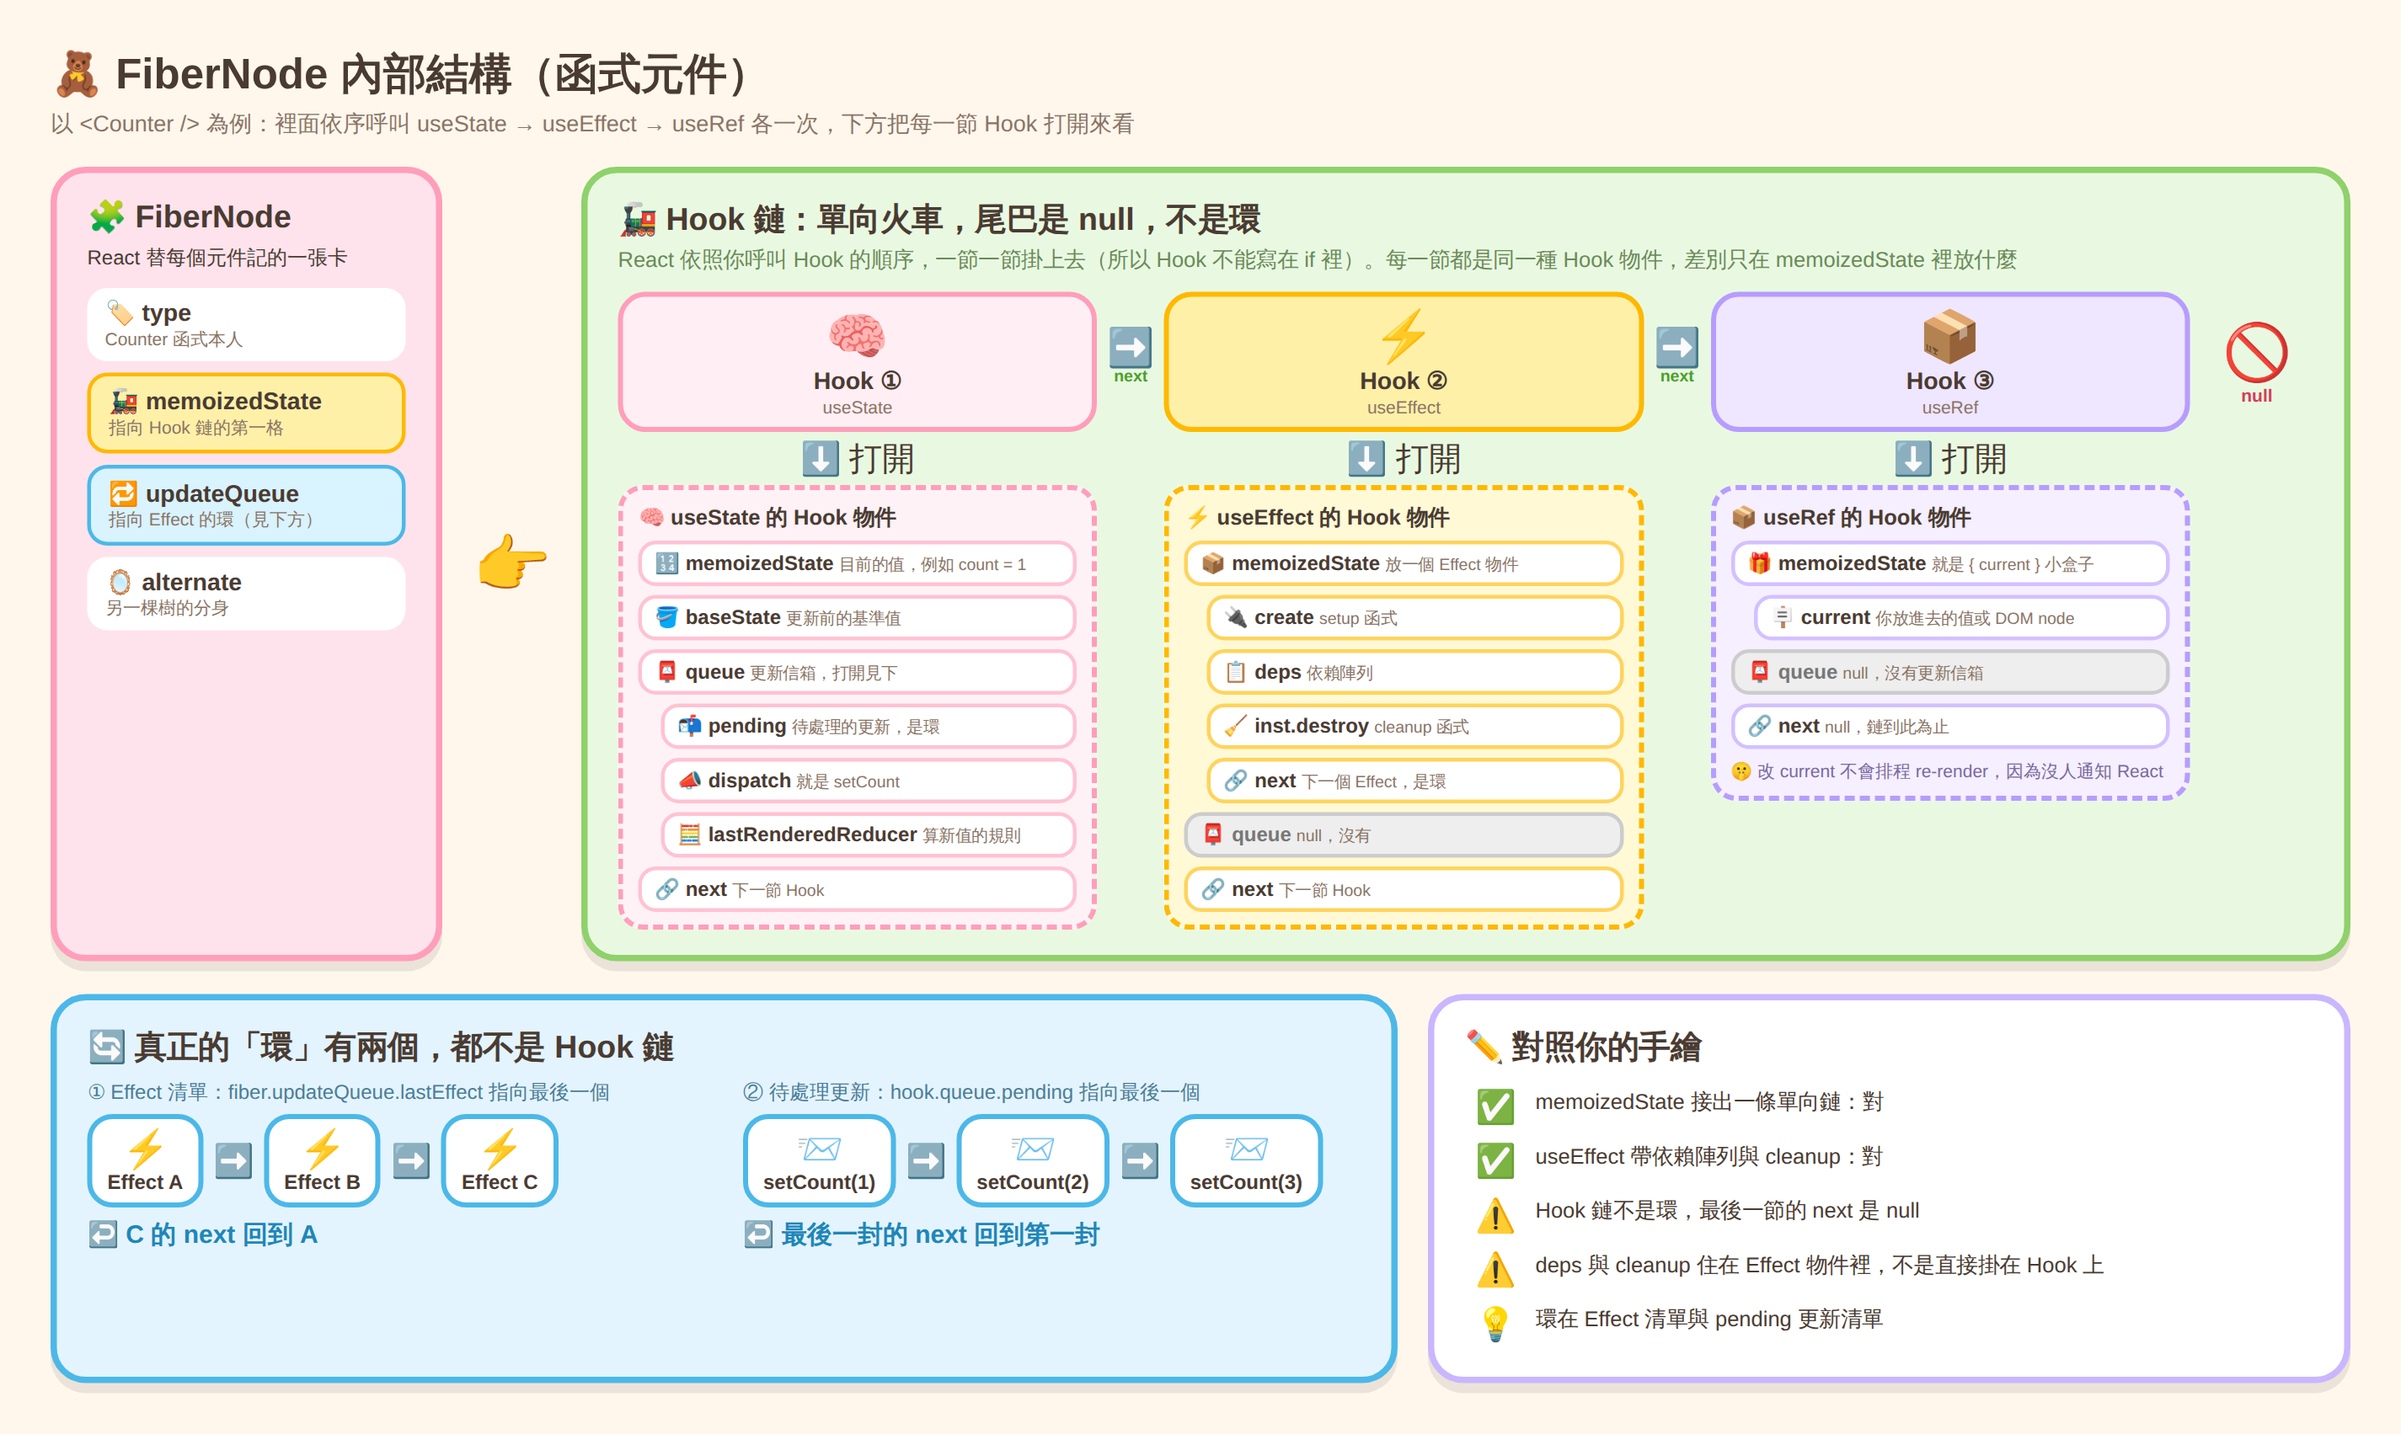
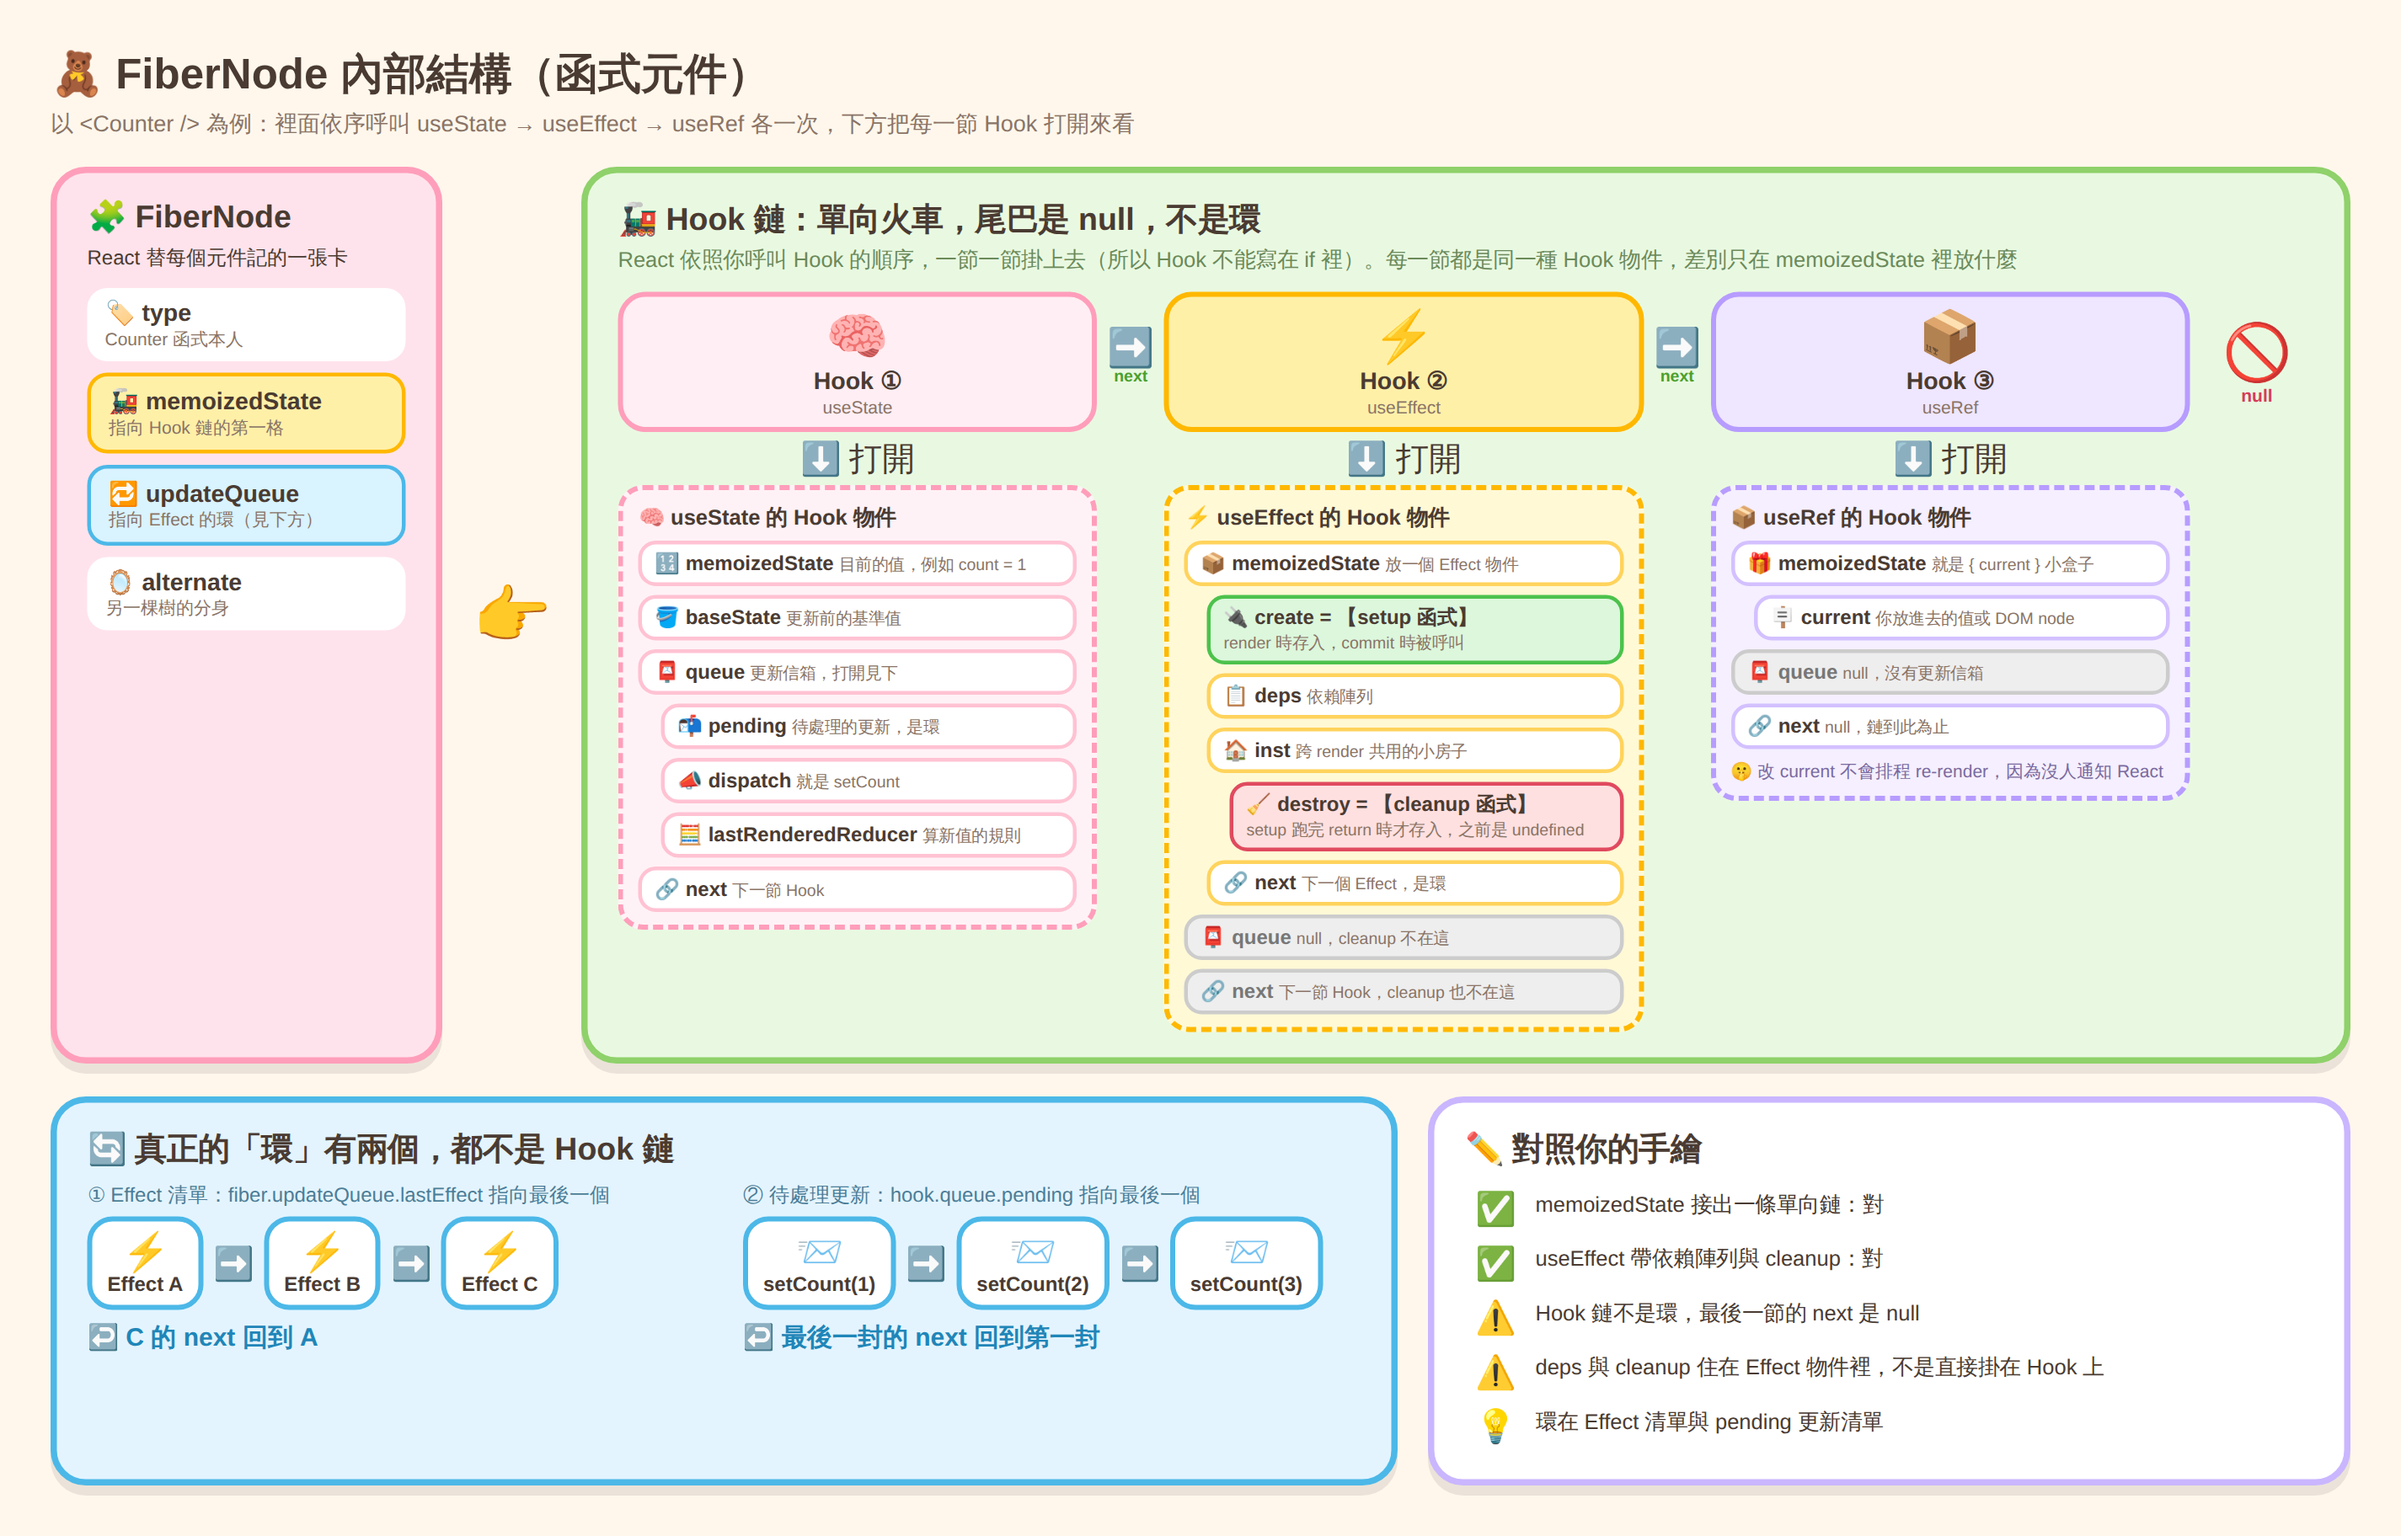
docs: 補 setup/cleanup 的 Call Stack 時間軸圖，並在 Fiber 圖標出 create 與 inst.destroy 位置

Changed region(s): [[0.0, 0.0311, 0.9993, 0.9648], [0.3123, 0.7469, 0.5621, 0.9025]]

diff --git a/frontend-docs/react/useEffect-setup與cleanup-CallStack罐頭時間軸-可愛圖.html b/frontend-docs/react/useEffect-setup與cleanup-CallStack罐頭時間軸-可愛圖.html
@@ -1,0 +1,70 @@
+<!DOCTYPE html>
+<html lang="zh-Hant">
+<head>
+<meta charset="utf-8">
+<title>useEffect 的 setup 與 cleanup：Call Stack 罐頭時間軸</title>
+<style>
+*{box-sizing:border-box}
+body{margin:0;background:#fff7ec;font-family:"Noto Sans TC","PingFang TC","Microsoft JhengHei",sans-serif;color:#4a3b32}
+#art{width:1900px;padding:34px 40px 38px;background:#fff7ec}
+h1{margin:0 0 4px;font-size:34px}
+.sub{font-size:18px;color:#8a7466;margin-bottom:18px}
+.vs{display:flex;gap:22px;margin-bottom:20px}
+.vs div{flex:1;border-radius:22px;padding:12px 18px;font-size:19px;font-weight:600;border:5px solid}
+.vs .no{background:#ffe3e8;border-color:#ff8fa5}.vs .ok{background:#e3f8e3;border-color:#7bd07b}
+.vs small{display:block;font-weight:400;font-size:16px;color:#6d5a4f}
+.frames{display:flex;gap:16px;align-items:stretch}
+.fr{flex:1;min-width:0;background:#fff;border-radius:26px;border:5px solid #ffc27a;padding:12px 12px 14px;box-shadow:0 8px 0 rgba(0,0,0,.08);display:flex;flex-direction:column;gap:9px}
+.fr h3{margin:0;font-size:20px;line-height:1.35;min-height:54px}
+.fr h3 span{display:inline-block;background:#ffb800;color:#fff;border-radius:50%;width:32px;height:32px;line-height:32px;text-align:center;margin-right:6px}
+.lab{font-size:15px;font-weight:800;color:#7a6a5f}
+.stack{height:178px;background:#f3ece4;border-radius:16px;border:4px dashed #d7c4b0;padding:8px;display:flex;flex-direction:column-reverse;gap:5px}
+.can{background:#d9ecff;border:3px solid #6ab0f0;border-radius:12px;padding:3px 8px;font-size:16px;font-weight:700;display:flex;gap:6px;align-items:center}
+.can.top{background:#fff0a8;border-color:#ffb800}
+.can.cl{background:#ffe0e0;border-color:#e04a5f}
+.can.su{background:#dcf7dc;border-color:#4cc24c}
+.empty{margin:auto;font-size:17px;color:#a08f80;font-weight:700;text-align:center}
+.heap{background:#fff9d6;border:4px solid #ffd35c;border-radius:16px;padding:8px 10px;display:flex;flex-direction:column;gap:5px;font-size:15px;font-weight:700}
+.row{background:#fff;border-radius:10px;padding:3px 8px;border:3px solid #ffe08a}
+.row.su{border-color:#4cc24c;background:#effbef}.row.cl{border-color:#e04a5f;background:#fff0f0}
+.row small{font-weight:400;color:#7a6a5f;font-size:13px;display:block}
+.cap{font-size:16px;line-height:1.55;background:#fff7ec;border-radius:12px;padding:6px 10px;flex:1}
+.foot{margin-top:18px;display:flex;gap:22px}
+.foot div{flex:1;background:#e3f4ff;border:5px solid #4cb8e8;border-radius:22px;padding:12px 18px;font-size:18px;font-weight:600}
+.foot small{display:block;font-weight:400;font-size:15px;color:#4c7d96;margin-top:3px}
+</style>
+</head>
+<body>
+<div id="art">
+  <h1>🥫 useEffect 的 setup 與 cleanup：Call Stack 罐頭時間軸</h1>
+  <div class="sub">以 &lt;ChatRoom /&gt; 為例：一個 useEffect，經過「第一次掛載 → 依賴變動」兩輪。左邊是 Call Stack（罐頭疊），下面是 Heap 上的 Effect 物件</div>
+  <div class="vs">
+    <div class="no">❌ 常見的想像<small>setup 罐頭先進 stack，cleanup 罐頭疊在它上面，所以 cleanup 先彈出</small></div>
+    <div class="ok">✅ 實際情況<small>cleanup 從來沒有跟 setup 同時在 stack 上，它是被 React 在「之後另一次」呼叫的，先後由 React 的 commit 排程決定</small></div>
+  </div>
+  <div class="frames" id="frames"></div>
+  <div class="foot">
+    <div>🥫 Call Stack 是後進先出（LIFO）<small>它只決定「同一時間疊在一起」的函式誰先彈出，例如 flushPassiveEffects 呼叫 setup()，一定是 setup() 先彈出</small></div>
+    <div>🔄 同一次 commit 的順序<small>React 先跑完所有要清理的 cleanup（commitPassiveUnmountEffects），再跑所有 setup（commitPassiveMountEffects）</small></div>
+    <div>🏠 cleanup 住在哪<small>fiber → Hook ② 的 memoizedState → Effect 物件 → inst.destroy，不在 queue，也不在 Hook 的 next</small></div>
+  </div>
+</div>
+<script>
+var F=[
+ {t:'render：呼叫元件函式',st:[['Counter()','top']],h:[['create = setup 函式','render 時存進 Effect 物件','su'],['inst.destroy = undefined','還沒有 cleanup','']],c:'render 只是把 setup 函式「存起來」，還沒執行。元件函式跑完罐頭就彈出。'},
+ {t:'commit：React 呼叫 setup',st:[['flushPassiveEffects',''],['setup()','su top']],h:[['create = setup 函式','正在被呼叫','su'],['inst.destroy = undefined','return 還沒執行','']],c:'setup 罐頭在 stack 上。裡面的 return () =&gt; … 只是在 Heap 建立一個函式物件，沒有呼叫它。'},
+ {t:'setup 回傳：cleanup 被存起來',st:[],h:[['create = setup 函式','已執行完','su'],['inst.destroy = cleanup 函式①','React 把 return 的函式存進來','cl']],c:'setup() 罐頭已經彈出，stack 空了。cleanup 靜靜躺在 Heap 的 Effect 物件裡，完全不在 stack 上。'},
+ {t:'依賴變動：React 先呼叫舊 cleanup',st:[['flushPassiveEffects',''],['cleanup①()','cl top']],h:[['create = 新 setup 函式','新 render 已存入，還沒執行','su'],['inst.destroy = undefined','inst 是新舊 Effect 共用的，React 先清成 undefined 再呼叫舊 cleanup','cl']],c:'新一輪 render 與 commit 之後，React 先呼叫舊的 cleanup①，用的是舊 render 的閉包值（舊 roomId）。'},
+ {t:'cleanup 彈出後才輪到新 setup',st:[['flushPassiveEffects',''],['setup()','su top']],h:[['create = 新 setup 函式','新 render 存入','su'],['inst.destroy = undefined → cleanup 函式②','setup 回傳後存入','cl']],c:'cleanup①() 已彈出才輪到新的 setup②()。兩者從不同時在 stack 上，順序是 cleanup① → setup②。'}
+];
+var h='';
+F.forEach(function(f,i){
+  var cans=f.st.map(function(c){var cls=c[1]?(' '+c[1]):'';return '<div class="can'+cls+'">🥫 '+c[0]+(c[1].indexOf('top')>-1?' ⬅ 執行中':'')+'</div>';}).join('');
+  if(!f.st.length) cans='<div class="empty">🈳 stack 是空的<br>沒有任何罐頭</div>';
+  var rows=f.h.map(function(r){return '<div class="row '+r[2]+'">'+(r[2]==='su'?'🔌 ':'🧹 ')+r[0]+(r[1]?'<small>'+r[1]+'</small>':'')+'</div>';}).join('');
+  h+='<div class="fr"><h3><span>'+(i+1)+'</span>'+f.t+'</h3><div class="lab">📚 Call Stack（下面是底）</div><div class="stack">'+cans+'</div><div class="lab">🏠 Heap：Hook ② 的 Effect 物件</div><div class="heap">'+rows+'</div><div class="cap">'+f.c+'</div></div>';
+});
+document.getElementById('frames').innerHTML=h;
+</script>
+</body>
+</html>

diff --git a/frontend-docs/react/FiberNode內部結構-可愛圖.html b/frontend-docs/react/FiberNode內部結構-可愛圖.html
@@ -38,6 +38,8 @@ h1{margin:0 0 4px;font-size:34px}
 .chip small{font-weight:400;font-size:13px;color:#8a7466;margin-left:4px}
 .s .chip{border-color:#ffc2d3}.f .chip{border-color:#ffd35c}.r .chip{border-color:#d3c0ff}
 .chip.ringc{background:#e3f4ff;border-color:#4cb8e8}
+.chip.setup{background:#dcf7dc;border-color:#4cc24c!important}.chip.cleanup{background:#ffe0e0;border-color:#e04a5f!important}
+.chip.setup small,.chip.cleanup small{display:block;margin-left:0}
 .chip.nul{background:#eee;border-color:#ccc;color:#777}
 .nx{align-self:flex-start;margin-top:30px;font-size:30px;text-align:center;line-height:1}
 .nx small{display:block;font-size:13px;font-weight:700;color:#4aa02c}
@@ -100,12 +102,13 @@ td:first-child{width:44px;font-size:26px}
           <div class="pop f">
             <div class="t">⚡ useEffect 的 Hook 物件</div>
             <div class="chip">📦 memoizedState<small>放一個 Effect 物件</small></div>
-            <div class="chip" style="margin-left:18px">🔌 create<small>setup 函式</small></div>
+            <div class="chip setup" style="margin-left:18px">🔌 create = 【setup 函式】<small>render 時存入，commit 時被呼叫</small></div>
             <div class="chip" style="margin-left:18px">📋 deps<small>依賴陣列</small></div>
-            <div class="chip" style="margin-left:18px">🧹 inst.destroy<small>cleanup 函式</small></div>
+            <div class="chip" style="margin-left:18px">🏠 inst<small>跨 render 共用的小房子</small></div>
+            <div class="chip cleanup" style="margin-left:36px">🧹 destroy = 【cleanup 函式】<small>setup 跑完 return 時才存入，之前是 undefined</small></div>
             <div class="chip" style="margin-left:18px">🔗 next<small>下一個 Effect，是環</small></div>
-            <div class="chip nul">📮 queue<small>null，沒有</small></div>
-            <div class="chip">🔗 next<small>下一節 Hook</small></div>
+            <div class="chip nul">📮 queue<small>null，cleanup 不在這</small></div>
+            <div class="chip nul">🔗 next<small>下一節 Hook，cleanup 也不在這</small></div>
           </div>
         </div>
         <div class="nx">➡<small>next</small></div>

diff --git a/frontend-docs/react/02-useEffect的setup清理函式-return一個函式而不是執行它.md b/frontend-docs/react/02-useEffect的setup清理函式-return一個函式而不是執行它.md
@@ -258,6 +258,23 @@ type EffectInstance = {
 
 3. **開發模式的 StrictMode 下，掛載後會立刻多跑一輪** `setup → cleanup → setup`。這不是 bug，是 React 故意在幫你檢查「你的 cleanup 有沒有寫對」。<mark style="background: #FFF3A3A6;">如果你的元件在 StrictMode 下行為異常（例如計時器變兩倍快、請求送兩次），通常代表 cleanup 漏寫了</mark>——詳見 [[01-React-純函數與嚴格模式-StrictMode]]。
 
+**用 Call Stack（呼叫堆疊）看順序：為什麼不是「cleanup 疊在 setup 上面所以先彈出」**
+Call Stack 是後進先出（LIFO）的罐頭堆，只負責「同一時間正在執行、層層呼叫」的函式。
+`return () => ...` 只是建立一個函式物件放在 Heap，並沒有呼叫它，所以 cleanup 從來沒有跟 setup 同時在 stack 上。
+
+| 時間點 | Call Stack 上有什麼 | cleanup 在哪裡 |
+|---|---|---|
+| ① render | `Counter()` | 還沒有，Effect 物件的 `create` 存著 setup 函式 |
+| ② commit 執行 setup | `flushPassiveEffects`、`setup()` | 還沒有，`return` 尚未執行 |
+| ③ setup 回傳之後 | 空的 | Heap：Effect 物件的 `inst.destroy` |
+| ④ 依賴變動，React 呼叫舊 cleanup | `flushPassiveEffects`、`cleanup①()` | 被呼叫中，`inst.destroy` 先被清成 `undefined` |
+| ⑤ cleanup 彈出後，呼叫新 setup | `flushPassiveEffects`、`setup②()` | 回傳後 `inst.destroy` 存入 cleanup② |
+
+所以順序不是 stack 決定的，是 React 的 commit 排程決定的：同一次 commit 裡先跑完所有要清理的 cleanup（原始碼 `commitPassiveUnmountEffects`），再跑所有 setup（`commitPassiveMountEffects`）。
+`create` 在 render 時存入、`inst.destroy` 在 commit 時 `destroy = create(); inst.destroy = destroy;` 那一行才存入，這就是 ③ 之前 `inst.destroy` 是 `undefined` 的原因。
+
+![[useEffect_setup與cleanup_CallStack罐頭時間軸_2026-10-04.png]]
+
 補充一個常被忽略的細節：**cleanup 讀到的是「它那一次 render 的值」，這是正確行為不是 bug**。因為 cleanup① 的任務就是收拾 setup① 建立的東西，它當然要用 setup① 當時的那組值。
 
 ---
@@ -378,6 +395,7 @@ NeetCode 目前沒有對應的 JavaScript 語言機制題組，上面五題在 L
 | React 官方文件 — `useEffect`（setup 與 cleanup 的契約、三個呼叫時機） | https://react.dev/reference/react/useEffect | 2026-09-06 查證 |
 | React 官方文件 — Synchronizing with Effects | https://react.dev/learn/synchronizing-with-effects | 2026-09-06 查證 |
 | React 官方文件 — State as a Snapshot（stale closure 的官方說法） | https://react.dev/learn/state-as-a-snapshot | 2026-09-06 查證 |
+| React 原始碼 `ReactFiberCommitEffects.js`（`destroy = create(); inst.destroy = destroy;`）與 `ReactFiberWorkLoop.js`（`commitPassiveUnmountEffects` 先於 `commitPassiveMountEffects`） | https://github.com/facebook/react/tree/main/packages/react-reconciler/src | main 分支，2026-10-04 實際抓取核對 |
 | Dan Abramov — A Complete Guide to useEffect | https://overreacted.io/a-complete-guide-to-useeffect/ | 原文 2019-03，2026-09-06 重讀 |
 | MDN — Arrow function expressions（簡潔本體、名稱推導） | https://developer.mozilla.org/en-US/docs/Web/JavaScript/Reference/Functions/Arrow_functions | 2026-09-06 查證 |
 | MDN — `clearInterval()` | https://developer.mozilla.org/en-US/docs/Web/API/Window/clearInterval | 2026-09-06 查證 |
